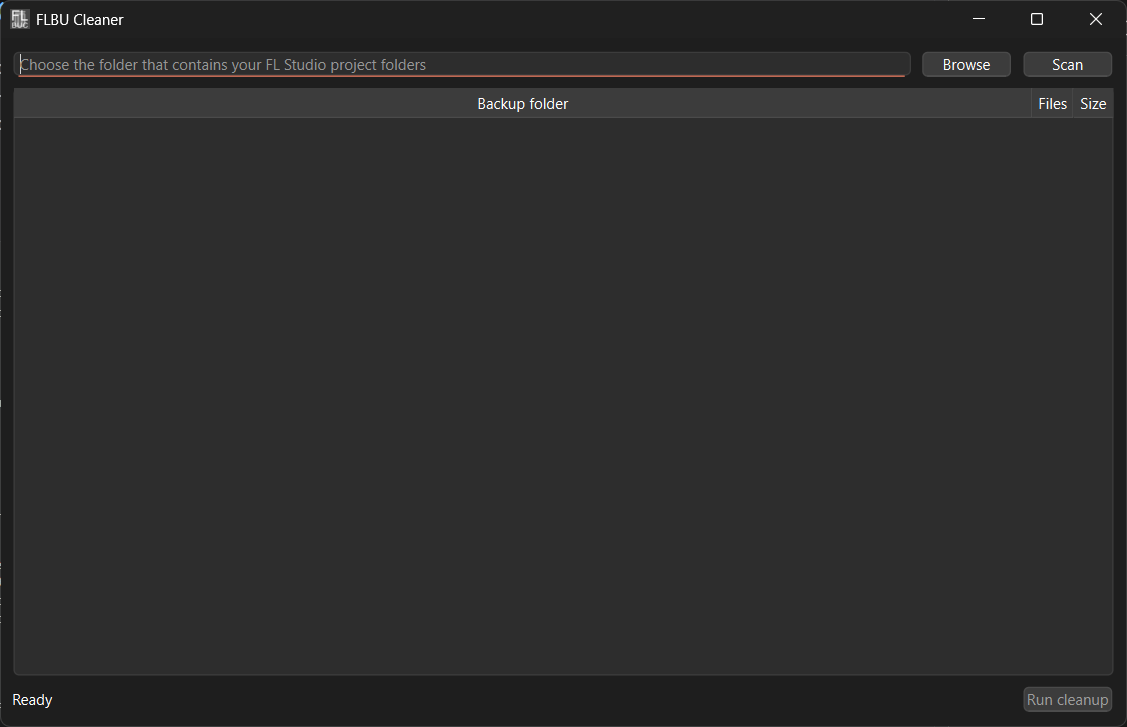
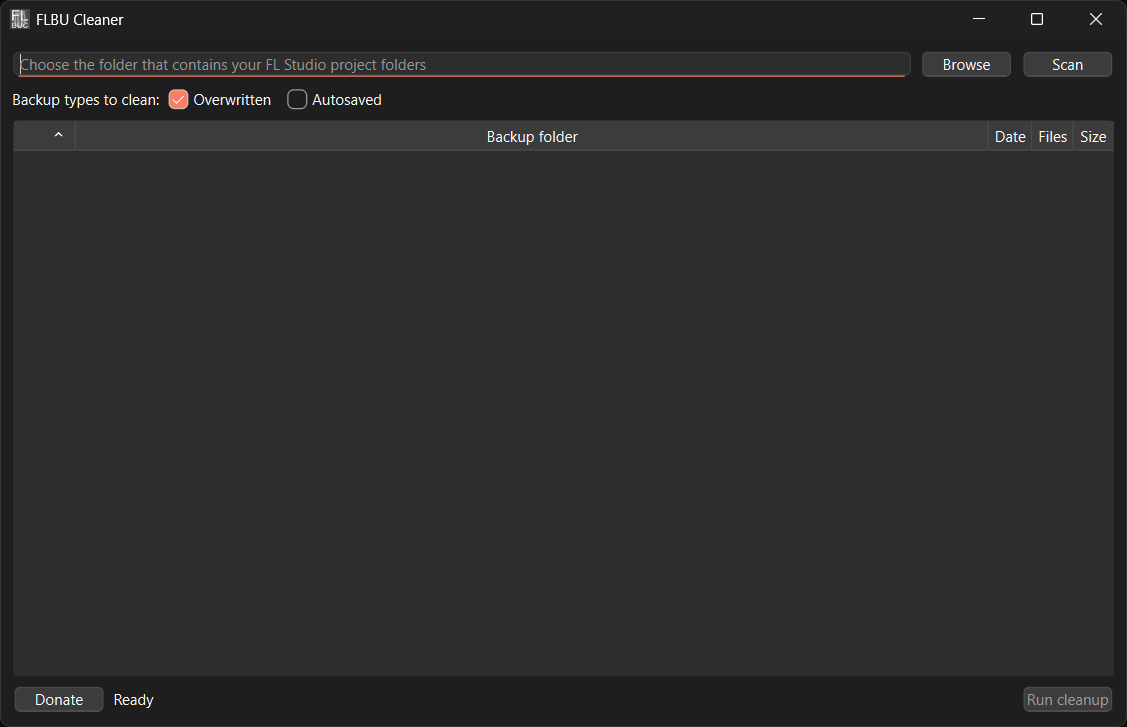
Tweaked checkbox selection to update displayed to-be-deleted info

Changed region(s): [[0.0, 0.121, 0.9938, 0.2118], [0.0, 0.9381, 0.1242, 0.9986]]

diff --git a/src/flcleaner/widgets/main_window.py b/src/flcleaner/widgets/main_window.py
@@ -131,6 +131,33 @@ class MainWindow(QtWidgets.QMainWindow):
         self.logger.info("scan start: %s", root)
         self.refresh_table()
 
+
+    def update_selected_summary(self):
+        selected_folders = 0
+        selected_files = 0
+        selected_bytes = 0
+
+        for i in range(self.table.rowCount()):
+            container = self.table.cellWidget(i, 0)
+            checkbox = container.findChild(QtWidgets.QCheckBox)
+
+            if not checkbox.isChecked():
+                continue
+
+            selected_folders += 1
+
+            files_item = self.table.item(i, 3)
+            size_item = self.table.item(i, 4)
+
+            selected_files += files_item.data(Qt.UserRole)
+            selected_bytes += size_item.data(Qt.UserRole)
+
+        self.status_label.setText(
+            f"Selected {selected_folders} backup folders, "
+            f"{selected_files} files, "
+            f"{format_bytes(selected_bytes)} total"
+        )
+        
     def populate_table(self, rows):
         self.table.setSortingEnabled(False)
         self.table.setRowCount(0)
@@ -139,6 +166,7 @@ class MainWindow(QtWidgets.QMainWindow):
             # check_item: Checkbox selection
             checkbox = QtWidgets.QCheckBox()
             checkbox.setChecked(True)
+            checkbox.stateChanged.connect(self.update_selected_summary)
 
             checkbox_container = QtWidgets.QWidget()
             checkbox_layout = QtWidgets.QHBoxLayout(checkbox_container)
@@ -172,6 +200,8 @@ class MainWindow(QtWidgets.QMainWindow):
             self.table.setItem(i, 2, date_item)
             self.table.setItem(i, 3, files_item)
             self.table.setItem(i, 4, size_item)
+
+            self.update_selected_summary()
 
         self.table.setSortingEnabled(True)
 

diff --git a/README.md b/README.md
@@ -1,18 +1,75 @@
 ![FL Backup Cleaner screenshot](assets/FLBUCleaner_screenshot.png)
 
-# FL Backup Cleaner
-A small desktop app built with PySide6. It:
-1. Scans a chosen root folder for project folders that contain a child named Backup, then files containing "overwritten" in the name.
-    (shows user analysis of storage distribution and storage size taken up)
-2. Can remove the contents of those Backup folders safely by sending items to the system recycle bin.
+# FLBU Cleaner
+A small Windows utility for cleaning FL Studio backup folders across multiple projects.
 
-## Quick start (while I tweak the app, figure out how to attach a logo, and make it an executable)
-1. Create and activate the virtual environment
-2. pip install -r requirements.txt
-3. python -m flcleaner.app
+FLBU Cleaner scans a folder containing your FL Studio project folders, finds each project's `Backup` folder, and lets you safely clean selected backup files without going through every project manually.
 
-## ! Working on packaging into an executable
-Using pyside6's deployment in standalone mode to avoid antivirus triggers.
-Working on Inno setup, should be ready soon.
+## Features
+- Scan a parent folder containing multiple FL Studio projects
+- Detect non-empty `Backup` folders
+- Clean:
+  - Overwritten backups
+  - Autosaved backups
+  - Or both
+- Select or deselect individual project backup folders
+- View:
+  - Backup folder path
+  - Last modified date
+  - Number of backup files
+  - Total backup size
+- Files are sent to the Windows Recycle Bin rather than permanently deleted
+- Optional Ko-fi donation link
+- No telemetry or data collection
 
-The app shows a window with a folder picker, a preview table, and a button to run the cleanup.
+## Download
+Download the latest Windows installer from the GitHub Releases page.
+
+## How to use
+1. Open FLBU Cleaner
+2. Choose the folder containing your FL Studio project folders
+3. Select which backup types you want to clean
+4. Click `Scan`
+5. Deselect any project backups you want to keep
+6. Click `Run cleanup`
+7. Confirm the cleanup
+
+## Backup types
+### Overwritten
+Previous versions of project files preserved by FL Studio before they were overwritten.
+
+These can be useful if you want to recover an older version of a project.
+
+### Autosaved
+Automatic recovery saves created by FL Studio while you work.
+
+These can be useful if FL Studio crashes or you need to recover unsaved work.
+
+## Safety
+FLBU Cleaner only targets `.flp` files matching the selected FL Studio backup types inside folders named `Backup`.
+
+You can choose which projects you wish to clean or keep, by deselecting individual backup folders before running cleanup.
+
+Additionally, files are sent to the Windows Recycle Bin rather than permanently deleted, so accidental cleanups can be undone by restoring the files from the Recycle Bin.
+
+
+## Privacy
+FLBU Cleaner does not collect, transmit, or analyze personal data or usage data.
+
+The application does not connect to the internet during normal use.
+
+The only external action is the optional `Donate` button, which asks for confirmation before opening the FLBU Cleaner Ko-fi page in your default web browser.
+
+## Screenshots
+
+<!-- ![FLBU Cleaner](assets/screenshot.png) -->
+
+## Building from source
+
+Requires Python 3.12 or later.
+
+```bash
+python -m venv .venv
+pip install -r requirements.txt
+pip install -e .
+python -m flcleaner.app
